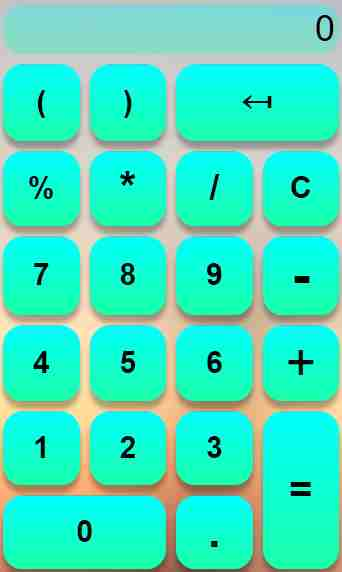
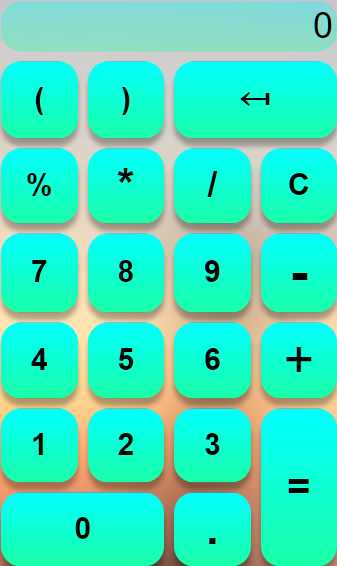
fixed precision bug

diff --git a/src/My Portfolio/projects/Calculator/src/components/KeyPadComponent.js b/src/My Portfolio/projects/Calculator/src/components/KeyPadComponent.js
@@ -5,29 +5,45 @@ export default function KeyPadComponent(props){
 		<div className="button">
 			<button name='(' onClick={e=> props.onClick(e.target.name)}>(</button>
 			<button name=')' onClick={e=> props.onClick(e.target.name)}>)</button>
-			<button className='width2' name='Backspace' style={{fontSize: '38px', padding: '15.7px 0'}} onClick={e=> props.onClick(e.target.name)}>↤</button>
+			<button name='Backspace'
+							className='width2 Backspace'
+							onClick={e=> props.onClick(e.target.name)}>↤</button>
 
 			<button name='%' onClick={e=> props.onClick(e.target.name)}>%</button>
-			<button name='*' style={{fontSize: '45px', padding: '8.8px 0'}} onClick={e=> props.onClick(e.target.name)}>*</button>
-			<button name='/' style={{fontSize: '36px', padding: '16.6px 0'}} onClick={e=> props.onClick(e.target.name)}>/</button>
+			<button name='*'
+							className='asterisk'
+							onClick={e=> props.onClick(e.target.name)}>*</button>
+			<button name='/'
+							className='dash'
+							onClick={e=> props.onClick(e.target.name)}>/</button>
 			<button name='C' onClick={e=> props.onClick(e.target.name)}>C</button>
 
 			<button name='7' onClick={e=> props.onClick(e.target.name)}>7</button>
 			<button name='8' onClick={e=> props.onClick(e.target.name)}>8</button>
 			<button name='9' onClick={e=> props.onClick(e.target.name)}>9</button>
-			<button name='-' style={{fontSize: '55px', padding: '7.27px 0'}} onClick={e=> props.onClick(e.target.name)}>-</button>
+			<button name='-'
+							className='minus'
+							onClick={e=> props.onClick(e.target.name)}>-</button>
 			
 			<button name='4' onClick={e=> props.onClick(e.target.name)}>4</button>
 			<button name='5' onClick={e=> props.onClick(e.target.name)}>5</button>
 			<button name='6' onClick={e=> props.onClick(e.target.name)}>6</button>
-			<button name='+' 	style={{fontSize: '53px', padding: '7.54px 0', fontWeight: 'normal'}} onClick={e=> props.onClick(e.target.name)}>+</button>
+			<button name='+'
+							className='plus'
+							onClick={e=> props.onClick(e.target.name)}>+</button>
 			
 			<button name='1' onClick={e=> props.onClick(e.target.name)}>1</button>
 			<button name='2' onClick={e=> props.onClick(e.target.name)}>2</button>
 			<button name='3' onClick={e=> props.onClick(e.target.name)}>3</button>
-			<button name='=' className='height2' style={{fontSize: '40px', padding: '10px 0'}} onClick={e=> props.onClick(e.target.name)}>=</button>
-			<button name='0' className='width2' onClick={e=> props.onClick(e.target.name)}>0</button>
-			<button name='.' style={{fontSize: '45px', padding: '8.8px 0'}} onClick={e=> props.onClick(e.target.name)}>.</button>
+			<button name='='
+							className='height2 equals'
+							onClick={e=> props.onClick(e.target.name)}>=</button>
+			<button name='0'
+							className='width2'
+							onClick={e=> props.onClick(e.target.name)}>0</button>
+			<button name='.'
+							className='dot'
+							onClick={e=> props.onClick(e.target.name)}>.</button>
 		</div>
 	);
 }

diff --git a/src/My Portfolio/projects/Calculator/src/App.css b/src/My Portfolio/projects/Calculator/src/App.css
@@ -1,8 +1,3 @@
-html, body{
-	box-sizing: border-box;
-	font-family: Arial, "Helvetica Neue", Helvetica, sans-serif;
-}
-
 .calculator-body{
 	position: absolute;
 	top: 50%;
@@ -16,7 +11,8 @@ html, body{
 }
 
 .result{
-	background-image: linear-gradient(rgba(0,255,255,.35), rgb(25, 255, 167, .35));
+	background-image: linear-gradient(rgba(0,255,255,.35),
+		rgb(25, 255, 167, .35));
 	margin-bottom: 10px;
 	border-radius: 20px;
 	width: 100%;
@@ -24,6 +20,7 @@ html, body{
 	text-align: right;
 	word-break: break-all;
 	overflow: hidden;
+	outline: none;
 }
 
 .result p{
@@ -65,7 +62,8 @@ html, body{
 }
 
 .button button:hover{
-	background-image: linear-gradient(rgba(0,255,255,.95), rgb(25, 255, 167, .95));
+	background-image: linear-gradient(rgba(0,255,255,.95),
+		rgb(25, 255, 167, .95));
 }
 
 .button button:active{
@@ -82,9 +80,47 @@ html, body{
 	grid-row: span 2;
 }
 
-.kbd-navigation button:focus{
-	-webkit-box-shadow: 0 12px 5px rgba(0,0,0, .9);
-	box-shadow: 0 8px 5px rgba(0,0,0, .9);
+.button .Backspace{
+	font-size: 38px;
+	padding: 0;
+}
+
+.button .asterisk{
+	font-size: 45px;
+	padding: 0;
+}
+
+.button .dash{
+	font-size: 36px;
+	padding: 0;
+}
+
+.button .minus{
+	font-size: 55px;
+	padding: 0;
+	padding-bottom: 9px;
+}
+
+.button .plus{
+	font-size: 53px;
+	padding: 0;
+	font-weight: normal;
+}
+
+.button .equals{
+	font-size: 40px;
+	padding: 0;
+}
+
+.button .dot{
+	font-size: 45px;
+	padding: 0;
+}
+
+@media only screen and (max-width: 885px) {
+	.calculator-body{
+		margin-top: 30px;
+	}
 }
 
 @media only screen and (max-width: 415px) {

diff --git a/src/My Portfolio/contents/Projects.js b/src/My Portfolio/contents/Projects.js
@@ -4,26 +4,26 @@ import calcImage from '../projects/Calculator/CalculatorImg.jpg';
 import blackChrome from '../projects/Black-Chrome/56756.jpg';
 import blackGoogle from '../projects/Black-Google/Images/1.jpg';
 
-class Projects extends Component{
+export default class Projects extends Component{
 	openFullScreen(){
-		var elem= document.getElementById('BlackChromeBackground');
+		let elem= document.getElementById('BlackChromeBackground');
 		elem.classList.add('enlarge');
 		document.body.style.overflow= 'hidden';
 	}
 
 	closeFullScreen(){
-		var elem= document.getElementById('BlackChromeBackground');
+		let elem= document.getElementById('BlackChromeBackground');
 		elem.classList.remove('enlarge');
 		document.body.style.overflow= 'visible';
 	}
 
 	componentDidMount(){
-		var elem= document.getElementById('BlackChromeBackground');
+		let elem= document.getElementById('BlackChromeBackground');
 		elem.addEventListener('click', this.closeFullScreen);
 	}
 
 	componentWillUnmount(){
-		var elem= document.getElementById('BlackChromeBackground');
+		let elem= document.getElementById('BlackChromeBackground');
 		elem.removeEventListener('click', this.closeFullScreen);
 	}
 
@@ -87,5 +87,3 @@ class Projects extends Component{
 		);
 	}
 }
-
-export default Projects;

diff --git a/src/My Portfolio/components/mail-form.js b/src/My Portfolio/components/mail-form.js
@@ -1,6 +1,6 @@
 import React from 'react';
 
-class MailForm extends React.Component{
+export default class MailForm extends React.Component{
 	constructor(props){
 	super(props);
 	this.state = { message: ''};
@@ -14,9 +14,9 @@ class MailForm extends React.Component{
   }
 
   handleSubmit(e){
-	e.preventDefault(); // prevent reload page
-	const templateId = 'template_w1dmWdUc';
-	this.sendFeedback(templateId, {message_html: this.state.message})
+		e.preventDefault(); // prevent reload page
+		const templateId = 'template_w1dmWdUc';
+		this.sendFeedback(templateId, {message_html: this.state.message});
   }
 
 	transition2(style){
@@ -44,9 +44,9 @@ class MailForm extends React.Component{
 	}
 
   sendFeedback(templateId, variables){
-	window.emailjs.send(
-  	'gmail', templateId,
-  	variables
+		window.emailjs.send(
+	  	'gmail', templateId,
+	  	variables
   	).then(res =>{
   		this.sendEffect();
   	})
@@ -68,5 +68,3 @@ class MailForm extends React.Component{
   	);
   }
 }
-
-export default MailForm;

diff --git a/src/My Portfolio/CSS/desktop.css b/src/My Portfolio/CSS/desktop.css
@@ -11,6 +11,17 @@
 		height: 100%;
 	}
 
+	.kbd-navigation *:focus{
+		-webkit-box-shadow: 0 14px 5px #0069FFFF;
+		box-shadow: 0 18px 11px #0061FFFF;
+		outline: none;
+	}
+
+	.kbd-navigation *:focus img{
+		-webkit-box-shadow: 0 14px 14px #0069FFFF;
+		box-shadow: 0 18px 11px #0061FFFF;
+	}
+
 	#App{
 		display: -webkit-flex;
 		display: -moz-flex;
@@ -135,6 +146,11 @@
 		border-radius: 50%;
 		max-height: 85px;
 		max-width: 85px;
+	}
+
+	.gitIcon a{
+		-webkit-box-shadow: 0 0 0 !important;
+		box-shadow: 0 0 0 !important;
 	}
 
 	#openBtn{

diff --git a/src/My Portfolio/projects/Calculator/src/App.js b/src/My Portfolio/projects/Calculator/src/App.js
@@ -15,9 +15,9 @@ export default class App extends Component{
 		try {
 			// eslint-disable-next-line
 			var x= eval(this.state.result);
-			if (x.toString().length > 17 && !/\./.test(x)){
-				x= x.toPrecision(17)
-			}else if (x.toString().length > 17 && /\./.test(x)){
+			if (x.toString().length > 16 && !/\./.test(x)){
+				x= x.toPrecision(16)
+			}else if (x.toString().length > 16 && /\./.test(x)){
 				// eslint-disable-next-line
 				x= eval(x.toFixed(16))
 			}

diff --git a/src/My Portfolio/CSS/mobile.css b/src/My Portfolio/CSS/mobile.css
@@ -485,6 +485,16 @@
 		flex-wrap: wrap;
 	}
 
+	@media only screen and (max-height: 500px){
+		#calcAlign{
+			height: 60%;
+		}
+
+		.fullWidth{
+			margin-top: 10px;
+		}
+	}
+
 	@media only screen and (max-width: 635px)  {
 		.Content table tr th{
 			padding: 10px;
@@ -503,14 +513,6 @@
 		.Navbarlink{
 			padding: 30px 25px;
 			font-size: 30px;
-		}
-
-		.Content h1{
-			font-size: 40px;
-		}
-
-		.Content p{
-			font-size: 25px;
 		}
 
 		.Content table tr th{

diff --git a/public/index.html b/public/index.html
@@ -19,5 +19,17 @@
       emailjs.init("user_y22gfSKWDxctAXGmPgNql");
    })();
 </script>
+
+<script type="text/javascript">
+window.addEventListener('mousedown', function(){
+  document.body.classList.remove('kbd-navigation');
+});
+
+window.addEventListener('keydown', function(e){
+  if(e.keyCode === 9){
+    document.body.classList.add('kbd-navigation');
+  }
+});
+</script>
 </body>
 </html>

diff --git a/src/My Portfolio/components/Social.js b/src/My Portfolio/components/Social.js
@@ -7,7 +7,10 @@ export default function Social(props){
 			<a rel="noopener noreferrer"
 				 href="https://github.com/Ivan-Kononchuk"
 				 target='_blank'> 
-				<img onClick={props.onClick} src={gitIcon} alt="gitIcon"/>
+				<img onClick={props.onClick}
+						 src={gitIcon}
+						 alt="gitIcon"
+						 />
 			</a>
 		</div>
 	);

diff --git a/src/My Portfolio/projects/Black-Google/App.js b/src/My Portfolio/projects/Black-Google/App.js
@@ -19,7 +19,7 @@ seventh,
 eighth
 ];
 
-class Gallery extends React.Component {
+export default class Gallery extends React.Component {
   constructor(props) {
     super(props);
     this.state = { currentIndex: null };
@@ -131,5 +131,3 @@ class GalleryModal extends React.Component {
     )
   }
 }
-
-export default Gallery;

diff --git a/src/My Portfolio/projects/Calculator/src/components/ResultComponent.js b/src/My Portfolio/projects/Calculator/src/components/ResultComponent.js
@@ -3,7 +3,7 @@ import React from 'react';
 export default function ResultComponent(props){
 	var {result} = props;
 	return (
-		<div className="result">
+		<div className="result" tabIndex='0'>
 			<p>{result}</p>
 		</div>
 	);
